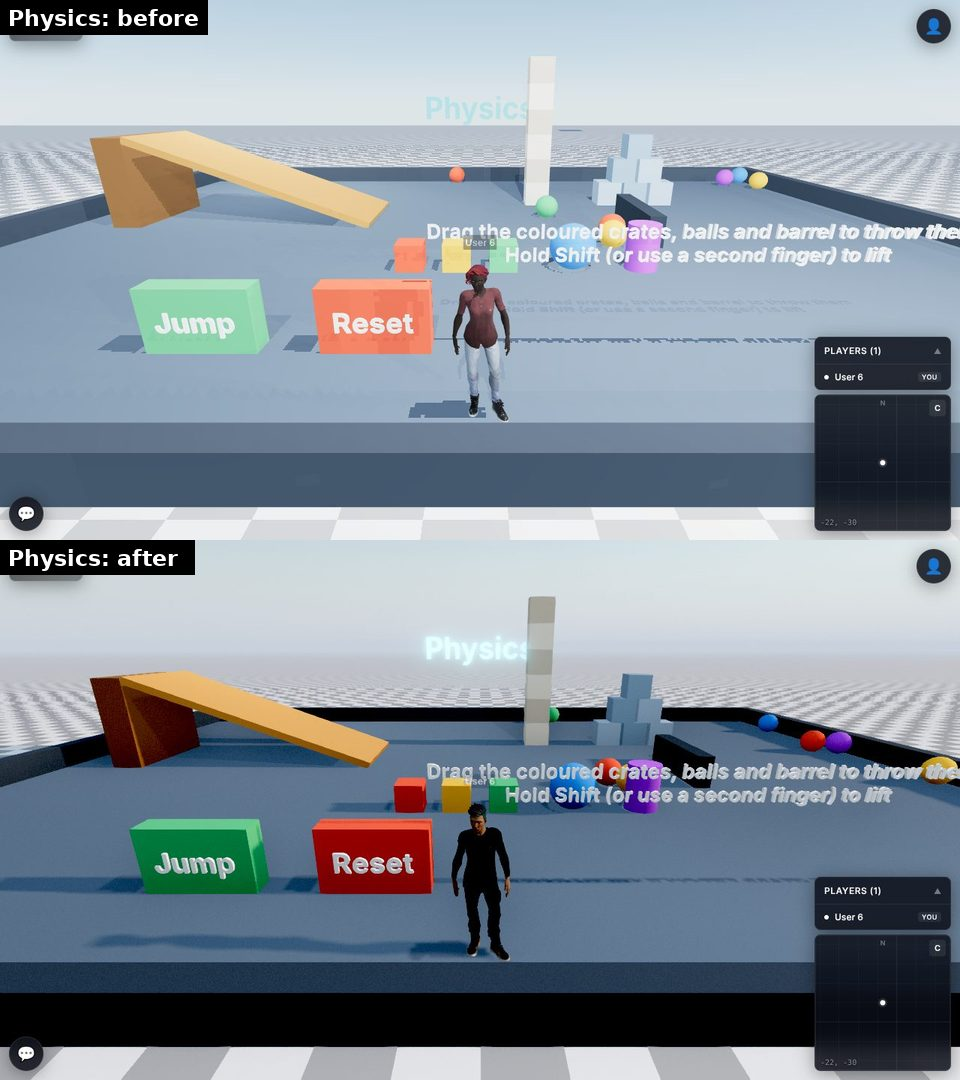
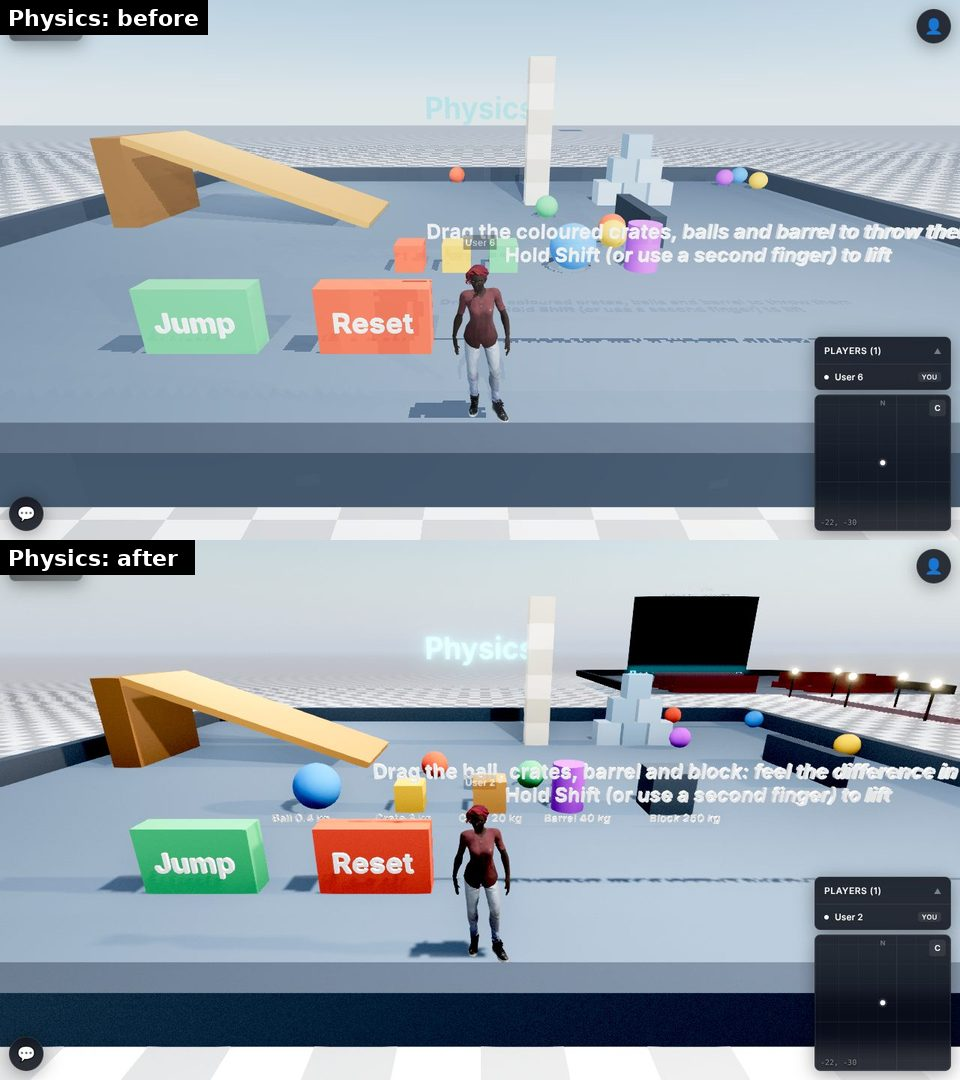
example: calmer cinema lights; refresh screenshots after merging main
The cinema's lights (700/200/250 cd) get the same treatment as the other
hand-written areas (120/50/60, ranges kept). The physics and ball pit
documents are generated from the fork's templates, so they are left as
they are; docs/screenshots/README.md lists suggested values for those
templates. Hub and physics screenshots are refreshed on the merged branch.

Claude-Session: https://claude.ai/code/session_0139Jdt6Fp9XQFoQTpzq3hRs

diff --git a/example/multi-user-3d-web-experience/server/mml-documents/cinema.html b/example/multi-user-3d-web-experience/server/mml-documents/cinema.html
@@ -14,9 +14,9 @@
 <head></head>
 <body>
 <m-group id="youtube-demo">
-  <m-light type="point" x="0" y="9" z="6" intensity="700" distance="40" cast-shadows="true"></m-light>
-  <m-light type="point" x="-7" y="6" z="-2" intensity="200" distance="30" cast-shadows="false"></m-light>
-  <m-light type="point" x="0" y="6" z="13" intensity="250" distance="30" cast-shadows="false"></m-light>
+  <m-light type="point" x="0" y="9" z="6" intensity="120" distance="40" cast-shadows="true"></m-light>
+  <m-light type="point" x="-7" y="6" z="-2" intensity="50" distance="30" cast-shadows="false"></m-light>
+  <m-light type="point" x="0" y="6" z="13" intensity="60" distance="30" cast-shadows="false"></m-light>
 
   <!-- Floor and a low wall behind the screen -->
   <m-plane id="floor" rx="-90" width="22" height="20" z="1" color="#4b5561"></m-plane>

diff --git a/docs/screenshots/README.md b/docs/screenshots/README.md
@@ -4,6 +4,13 @@ Screenshots of the example world (`example/multi-user-3d-web-experience`) with t
 (Frostyz44/mml-test) applied. "Before" is `main` at 5a94a7a; "after" is the `world-visuals` branch with the
 example server's own `environmentConfiguration`. All were taken in headless Chromium with SwiftShader
 (software WebGL) at 1280×720, quality forced to `high` (`?quality=high`) unless noted, and downscaled.
+`main` moved on afterwards (3085dbb: a new physics area, the ball pit and the cinema) and was merged into this
+branch, so the physics pair also differs in content.
+
+The physics and ball pit documents are generated from the fork's mml-physics demo templates and still use
+900 / 500 cd lights, which wash out their floors under the new tone mapping (visible in
+`physics-before-after.jpg`). Suggested values for the templates in Frostyz44/mml-test: physics 900 → 140 and
+300 → 50, ball pit 500 → 90 and 150 → 40 (keeping their `distance`).
 
 | File | What to look at |
 |---|---|
